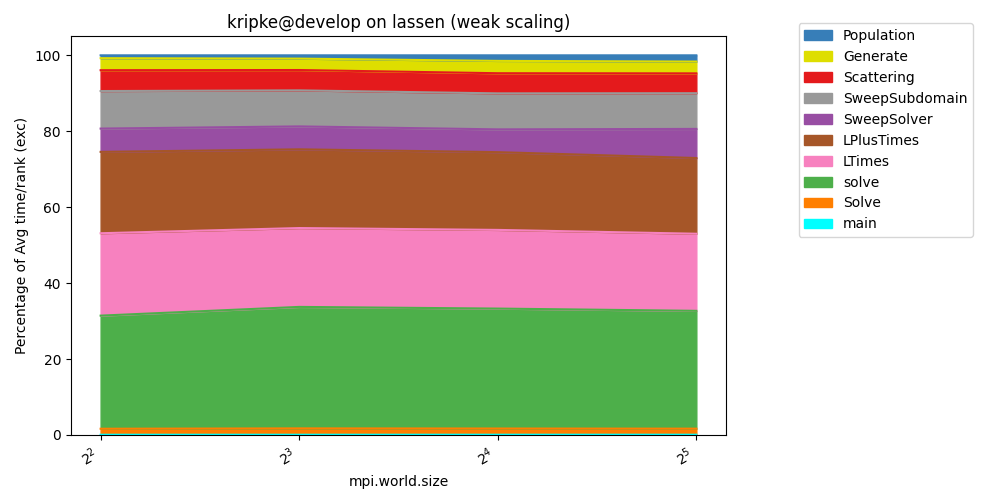
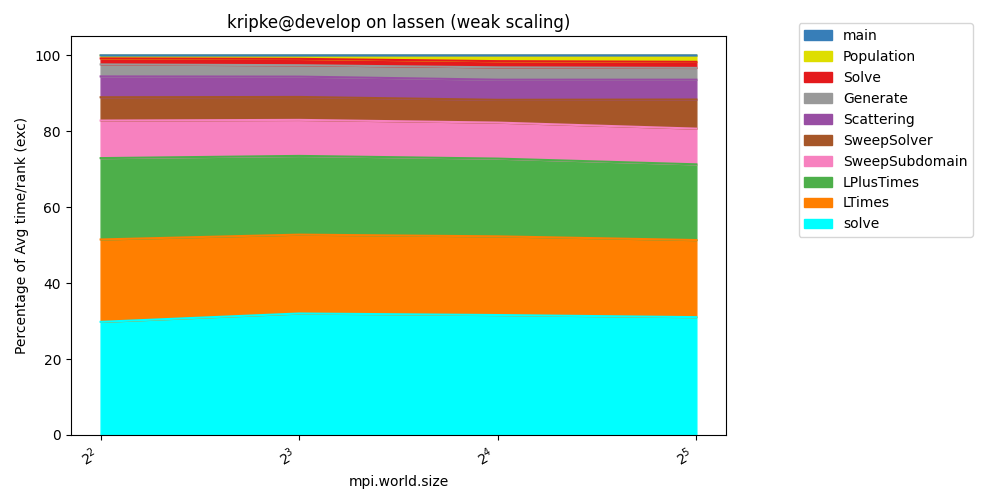
Fix usage of total time no matter which metric used

diff --git a/examples/python_scripts/stacked_line_charts.py b/examples/python_scripts/stacked_line_charts.py
@@ -35,7 +35,7 @@ def arg_parse():
     parser.add_argument(
         "--chart_type",
         required=True,
-        choices=["percentage_time", "total_time"],
+        choices=["percentage_time", "time"],
         type=str,
         help="Specify type of output chart.",
     )
@@ -108,16 +108,16 @@ def make_stacked_line_chart(df, chart_type, x_axis, y_axis_metric, **kwargs):
             if kwargs["chart_ylabel"]
             else "Percentage of " + y_axis_metric
         )
-    elif chart_type == "total_time":
-        value = "Total time"
+    elif chart_type == "time":
+        value = y_axis_metric
         y_label = (
             kwargs["chart_ylabel"]
             if kwargs["chart_ylabel"]
-            else "Total of " + y_axis_metric
+            else y_axis_metric
         )
     else:
         raise ValueError(
-            "Invalid chart_type value. Please choose from 'percentage_time' or 'total_time'."
+            "Invalid chart_type value. Please choose from 'percentage_time' or 'time'."
         )
 
     df.to_csv(kwargs["chart_file_name"] + ".csv")
@@ -265,7 +265,7 @@ def process_thickets(
         ctk.dataframe = ctk.dataframe.filter(like=filter_nodes_name_prefix, axis=0)
 
     if top_n_nodes != -1:
-        ctk.dataframe = ctk.dataframe.nlargest(top_n_nodes, [(x_axis[0], "Total time")])
+        ctk.dataframe = ctk.dataframe.nlargest(top_n_nodes, [(x_axis[0], y_axis_metric)])
 
     # Set default label to x_axis_unique_metadata if not provided
     if not additional_args["chart_xlabel"]:

diff --git a/docs/analysis_examples.rst b/docs/analysis_examples.rst
@@ -14,7 +14,7 @@ for how to generate stacked line charts.
 The script is intended to help generate visualizations of scaling studies
 using Caliper and Thicket.
 It outputs a stacked line chart of Caliper node runtimes, either by
-percentage or by total run time.
+percentage or by run time.
 
 Running the Script:
 *******************
@@ -36,7 +36,7 @@ Script Arguments:
    * - --x_axis_unique_metadata
      - Str: Required. Parameter that is varied during the experiment.
    * - --chart_type
-     - Str: Required. Specify type of output chart. Choices: "percentage_time" | "total_time".
+     - Str: Required. Specify type of output chart. Choices: "percentage_time" | "time".
    * - --y_axis_metric
      - Str: Optional. Metric to be visualized. Default is "Avg time/rank (exc)".
    * - --filter_nodes_name_prefix
@@ -94,11 +94,11 @@ Run canned analysis:
    $ python stacked_line_charts.py \
     --input_files "kripke-strong" \
     --x_axis_unique_metadata "mpi.world.size" \
-    --chart_type "total_time" \
+    --chart_type "time" \
     --y_axis_metric "Avg time/rank (exc)" \
     --top_n_nodes 10
 
-.. figure:: images/kripke_cuda_strong_total_time.png
+.. figure:: images/kripke_cuda_strong_time.png
   :width: 800
   :align: center
 
@@ -133,11 +133,11 @@ Run canned analysis:
    $ python stacked_line_charts.py \
     --input_files "kripke-weak" \
     --x_axis_unique_metadata "mpi.world.size" \
-    --chart_type "total_time" \
+    --chart_type "time" \
     --y_axis_metric "Avg time/rank (exc)" \
     --top_n_nodes 10
 
-.. figure:: images/kripke_cuda_weak_total_time.png
+.. figure:: images/kripke_cuda_weak_time.png
   :width: 800
   :align: center
 
@@ -172,10 +172,10 @@ Run canned analysis:
    $ python stacked_line_charts.py \
     --input_files "kripke-throughput" \
     --x_axis_unique_metadata "zones" \
-    --chart_type "total_time" \
+    --chart_type "time" \
     --y_axis_metric "Avg time/rank (exc)" \
     --top_n_nodes 10
 
-.. figure:: images/kripke_cuda_throughput_total_time.png
+.. figure:: images/kripke_cuda_throughput_time.png
   :width: 800
   :align: center
